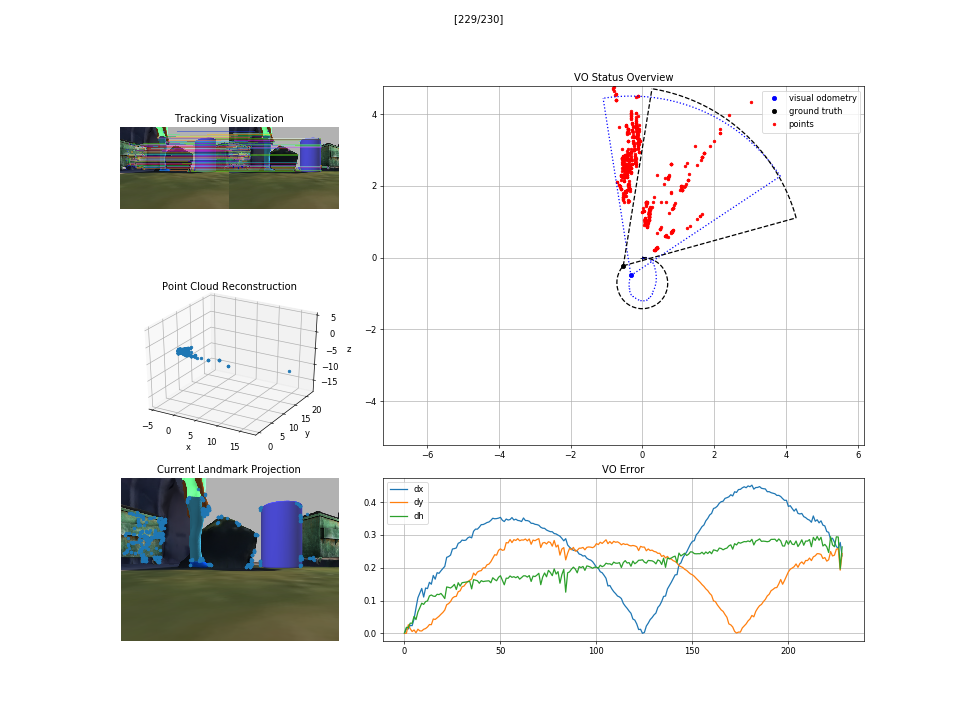
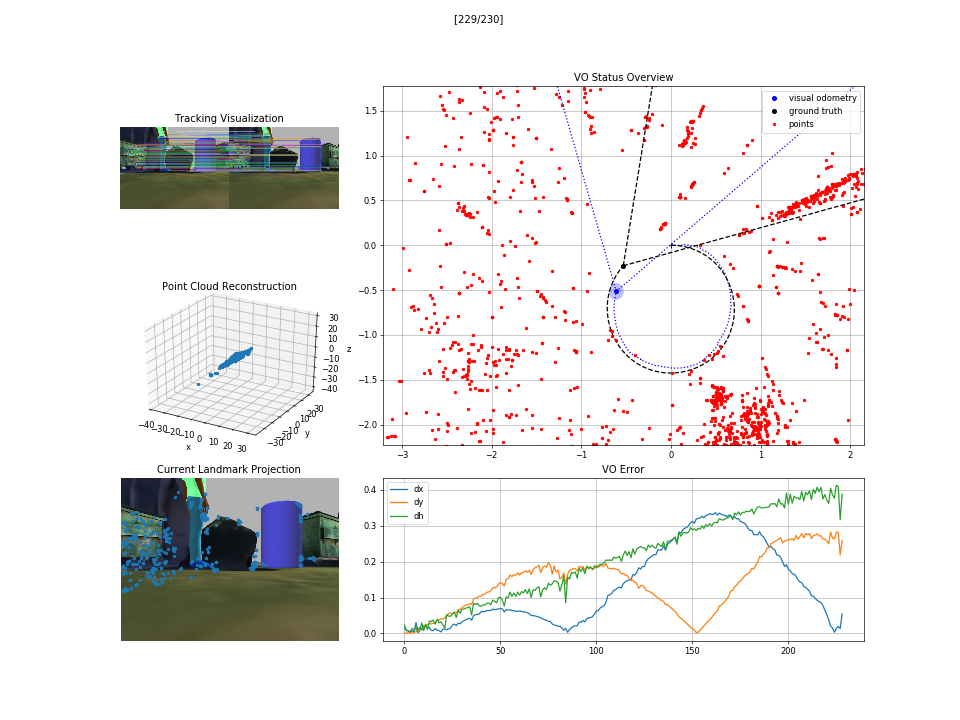
currently stable + successful, although there are some very very sensitive parameters.

diff --git a/robot_learning/scripts/classical/vo3.py b/robot_learning/scripts/classical/vo3.py
@@ -162,7 +162,7 @@ class Conversions(object):
         if (det is None) and (des is None):
             # default detector+descriptor=orb
             orb = cv2.ORB_create(
-                    nfeatures=2048
+                    nfeatures=4096
                     )
             det = orb
             des = orb
@@ -445,6 +445,7 @@ class ClassicalVO(object):
     def initialize_landmark_variance(self, pt3_c, pose):
         # initialize variance
         var_rel = np.square([0.05, 0.05, 1.0]) # expected landmark variance @ ~ 1m
+        # TODO : ^ is a ballpart estimate.
         var_rel = np.diag(var_rel) # 3x3
         var_c = oriented_cov(pt3_c, var_rel) # Nx3x3
 
@@ -732,7 +733,7 @@ class ClassicalVO(object):
         E, msk_e = cv2.findEssentialMat(pt2_u_c, pt2_u_p, self.K_,
                 **self.pEM_)
         msk_e = msk_e[:,0].astype(np.bool)
-        #print('em : {}/{}'.format(msk_e.sum(), msk_e.size))
+        print('em : {}/{}'.format(msk_e.sum(), msk_e.size))
 
         n_in, R, t, msk_r, pt3 = recover_pose(E, self.K_,
                 pt2_u_c[msk_e], pt2_u_p[msk_e], log=False,
@@ -788,6 +789,7 @@ class ClassicalVO(object):
         #idx  = np.argsort(s_xy_r)
         #pt3_m = self.landmarks_.pos_[idx[:512]]
         pt3_m = self.landmarks_.pos_
+        pt3_m = pt3_m[np.abs(pt3_m[:,2]) < 2.0 ] # ground-plane +- 2.0m
         pt2_c_rec, _ = self.cvt_.pt3_pose_to_pt2_msk(pt3_m, pose)
 
         # convert to base_link coordinates
